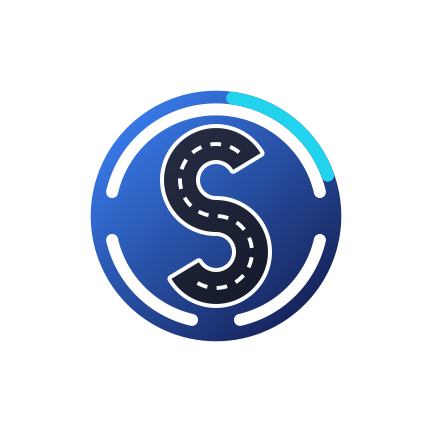
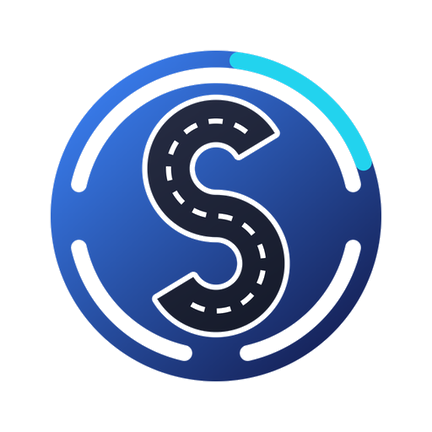
chore(release): 1.0.9 (9) — in-app review, yangi ikonka, release skripti
Play'ga chiqarilgan 1.0.9 holati: versiya pubspec.yaml va app_version.dart da
bir xil, ikonka brend paketidagi avtotestu_icon_small asosida, build_release.ps1
esa aab ni gradlew orqali yig'adi (SDK yo'lidagi bo'sh joy flutter'ning strip
qadamini yiqitardi).

Changed region(s): [[0.0903, 0.0903, 0.9028, 0.9028]]

diff --git a/lib/config/app_version.dart b/lib/config/app_version.dart
@@ -8,10 +8,10 @@ class AppVersion {
   AppVersion._();
 
   /// `version:` in pubspec.yaml, before the `+`.
-  static const String name = '1.0.8';
+  static const String name = '1.0.9';
 
   /// `version:` in pubspec.yaml, after the `+` — Android's versionCode.
-  static const int code = 8;
+  static const int code = 9;
 
   static String get displayVersion => 'v$name';
 
